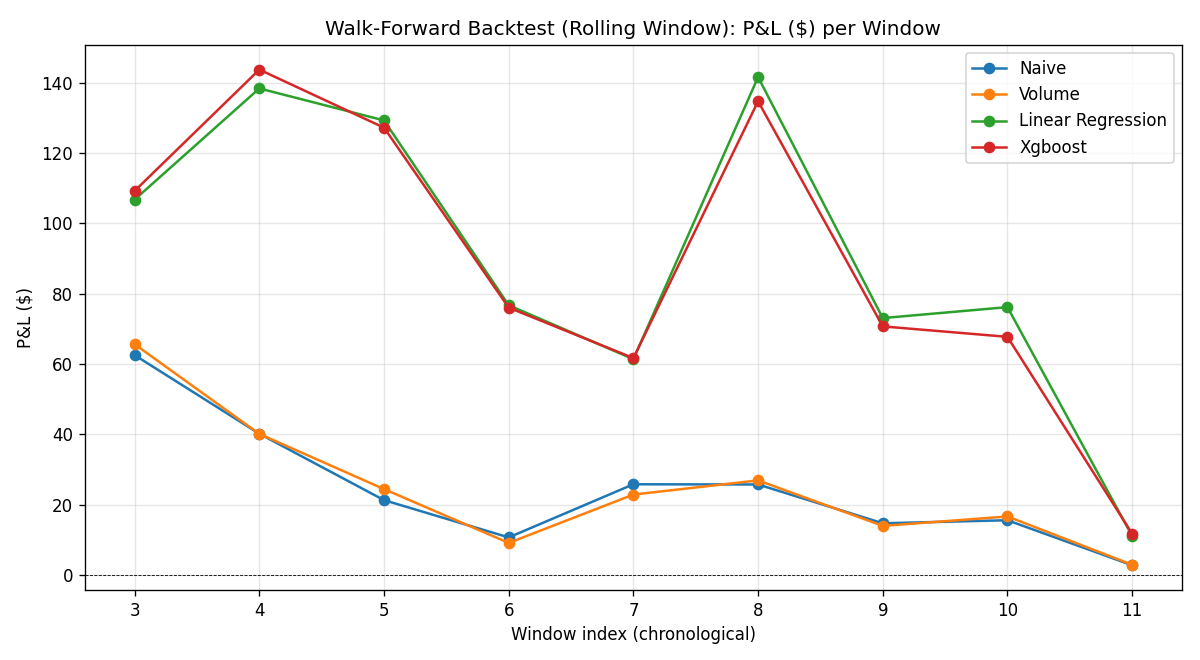
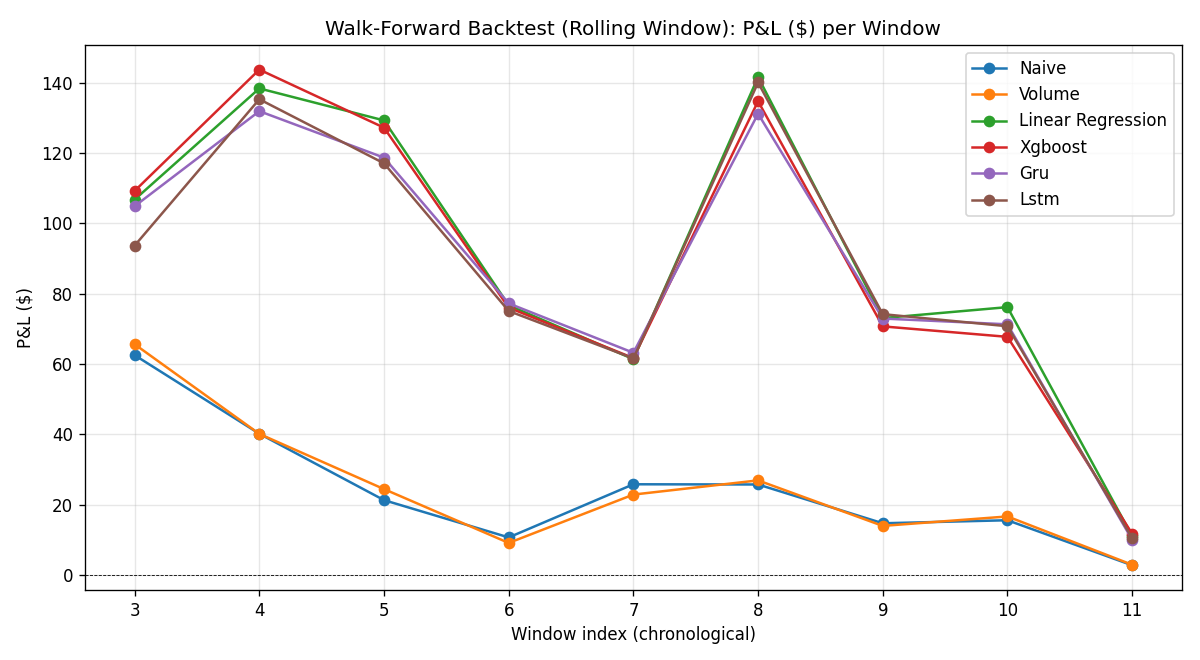
feat(walk-forward): all 6 models — naive, volume, LR, XGBoost, GRU, LSTM
Installed torch locally, added group_id handling and zero-variance
filter for sequence models. Now runs all 6 models across 9 rolling
windows.

Rolling window rankings by P&L:
- LR and XGBoost are essentially tied as top performers
- LSTM and GRU trail by ~5-10% per window consistently
- Naive/Volume sit at ~10-20% of the ML models' P&L

Key paper finding: across 9 independent out-of-sample rolling windows,
the XGBoost/LR > GRU/LSTM > Naive/Volume ordering is STABLE. Complexity
(sequence models) does not close the gap with simple regression, even
in a rolling-window adaptive setup.

diff --git a/experiments/run_walk_forward.py b/experiments/run_walk_forward.py
@@ -77,6 +77,11 @@ def _load_combined_data(data_dir: Path) -> pd.DataFrame:
     df = df.dropna(subset=["spread", TARGET_COLUMN]).reset_index(drop=True)
     df = df.fillna(0.0)
 
+    # Ensure group_id exists (sequence models require it for per-pair windowing).
+    # If the source parquet doesn't include it, derive from pair_id.
+    if "group_id" not in df.columns:
+        df["group_id"] = df["pair_id"].astype("category").cat.codes
+
     logger.info(
         "Loaded %d rows across %d pairs, timestamps [%d .. %d]",
         len(df), df["pair_id"].nunique(), df["timestamp"].min(), df["timestamp"].max(),
@@ -218,6 +223,17 @@ def run_walk_forward(
         X_test = test_df[feature_cols]
         y_test = test_df[TARGET_COLUMN].to_numpy()
 
+        # Sequence models (GRU/LSTM) need group_id for per-pair windowing.
+        # They also fail on zero-variance columns (their scaler divides by std).
+        # Drop any feature with zero variance in this window's training set.
+        nonzero_var_cols = [
+            c for c in feature_cols if train_df[c].std() > 1e-10
+        ]
+        seq_cols = nonzero_var_cols + ["group_id"]
+        X_train_seq = train_df[seq_cols]
+        X_test_seq = test_df[seq_cols]
+        y_train_seq = train_df[TARGET_COLUMN].to_numpy()
+
         logger.info(
             "Window %d: train=%d rows, test=%d rows (time: %s .. %s)",
             i, len(train_df), len(test_df),
@@ -240,8 +256,17 @@ def run_walk_forward(
 
         for name, factory in model_factories.items():
             model = factory()
-            model.fit(X_train, y_train)
-            preds = model.predict(X_test)
+            try:
+                if name in ("gru", "lstm"):
+                    # Sequence models need group_id for per-pair windowing
+                    model.fit(X_train_seq, y_train_seq)
+                    preds = model.predict(X_test_seq)
+                else:
+                    model.fit(X_train, y_train)
+                    preds = model.predict(X_test)
+            except Exception as e:
+                logger.warning("  %s: training failed — %s", name, e)
+                continue
 
             rmse = float(np.sqrt(np.mean((preds - y_test) ** 2)))
             da_mask = y_test != 0
